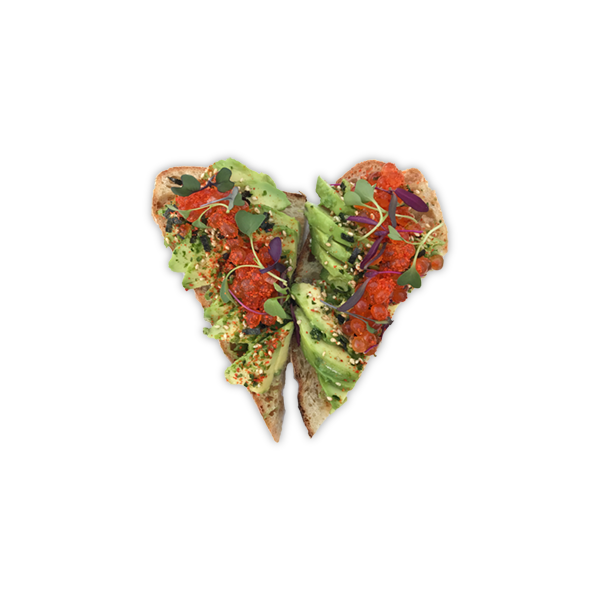
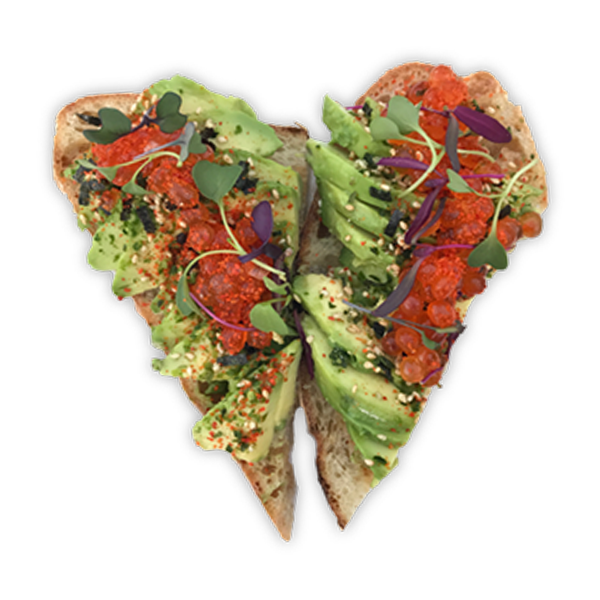
show random combos

diff --git a/news.html b/news.html
@@ -71,33 +71,6 @@
         </div>
         <div class="col-lg-8 col-lg-offset-1 col-md-10 col-md-offset-1 col-sm-10 col-sm-offset-1 vertical-center">
           <div class="content">
-            <!-- <div class="gallery_product col-lg-4 col-md-4 col-sm-4 col-xs-6 filter hdpe">
-                <img src="http://fakeimg.pl/365x365/" class="img-responsive">
-            </div>
-            <div class="gallery_product col-lg-4 col-md-4 col-sm-4 col-xs-6 filter hdpe">
-                <img src="http://fakeimg.pl/365x365/" class="img-responsive">
-            </div>
-            <div class="gallery_product col-lg-4 col-md-4 col-sm-4 col-xs-6 filter hdpe">
-                <img src="http://fakeimg.pl/365x365/" class="img-responsive">
-            </div>
-            <div class="gallery_product col-lg-4 col-md-4 col-sm-4 col-xs-6 filter hdpe">
-                <img src="http://fakeimg.pl/365x365/" class="img-responsive">
-            </div>
-            <div class="gallery_product col-lg-4 col-md-4 col-sm-4 col-xs-6 filter hdpe">
-                <img src="http://fakeimg.pl/365x365/" class="img-responsive">
-            </div>
-            <div class="gallery_product col-lg-4 col-md-4 col-sm-4 col-xs-6 filter hdpe">
-                <img src="http://fakeimg.pl/365x365/" class="img-responsive">
-            </div>
-            <div class="gallery_product col-lg-4 col-md-4 col-sm-4 col-xs-6 filter hdpe">
-                <img src="http://fakeimg.pl/365x365/" class="img-responsive">
-            </div>
-            <div class="gallery_product col-lg-4 col-md-4 col-sm-4 col-xs-6 filter hdpe">
-                <img src="http://fakeimg.pl/365x365/" class="img-responsive">
-            </div>
-            <div class="gallery_product col-lg-4 col-md-4 col-sm-4 col-xs-6 filter hdpe">
-                <img src="http://fakeimg.pl/365x365/" class="img-responsive">
-            </div> -->
             <div id="instafeed"></div>
           </div>
         </div>

diff --git a/index.html b/index.html
@@ -73,10 +73,10 @@
           </div>
         </div>
         <div class="col-lg-5 col-md-5 col-sm-5">
-          <img src="images/item1.png" class="bottom-left">
+          <img id="combo1" src="images/item1.png" class="bottom-left animated fadeInLeft">
         </div>
         <div class="col-lg-5 col-md-5 col-sm-5">
-          <img src="images/item2.png" class="top-right">
+          <img id="combo2" src="images/item2.png" class="top-right animated fadeInRight">
         </div>
       </div>
     </div>
@@ -98,5 +98,17 @@
 
     <!-- Bootstrap -->
     <script src="js/bootstrap.min.js"></script>
+
+    <!-- Show random combos -->
+    <script type="text/javascript">
+      var combos = {
+        0: ['images/item1.png', 'images/item2.png'],
+        1: ['images/item3.png', 'images/item4.png'],
+        2: ['images/item5.png', 'images/item6.png'],
+      }
+      var random_number = Math.floor((Math.random()*Object.keys(combos).length)) // 3
+      document.getElementById('combo1').src=combos[random_number][0];
+      document.getElementById('combo2').src=combos[random_number][1];
+    </script>
   </body>
 </html>
